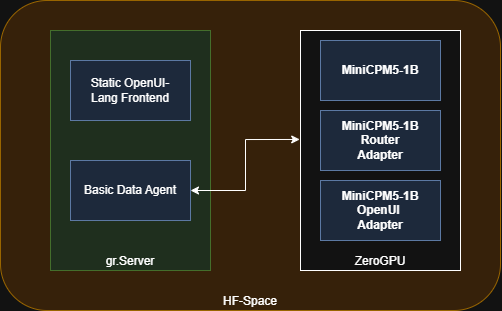
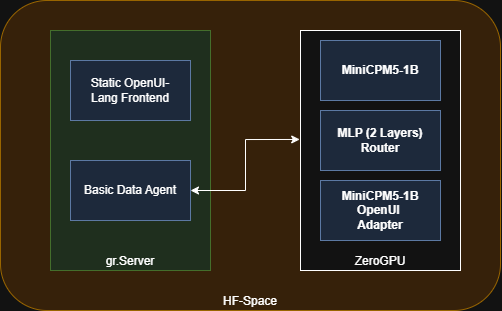
Updates Architecutre

Changed region(s): [[0.6574, 0.3762, 0.8665, 0.5209]]

diff --git a/blog/2026-06-15-build-small-hackathon.md b/blog/2026-06-15-build-small-hackathon.md
@@ -45,7 +45,7 @@ Die Nutzerfrage lautet:
 
 > Wie ist das Wetter in München
 
-Das Modell erzeugt daraufhin eine OpenUI-Lang-Repräsentation, die eine Wetterschnittstelle referenziert:
+Das LLM erzeugt daraufhin mithilfe von Wetterdaten eine OpenUI-Lang-Repräsentation:
 
 ```OpenUI-Lang
 root = Stack([header, callout, cards, footer])
@@ -92,11 +92,20 @@ Ein zentrales Deliverable im Hackathon war ein eigener Gradio Space zum Austeste
 Wir haben uns bewusst dafür entschieden, ausschließlich mit [MiniCPM-1B](https://huggingface.co/openbmb/MiniCPM5-1B) beziehungsweise fein-getunten LoRA-Adaptern zu arbeiten. Einerseits, weil der Anbieter des Modells den Hackathon unterstützt hat, andererseits, weil wir ausprobieren wollten, wie weit wir mit einem 1B-Modell kommen.
 
 ### Datensätze
+TODO Input Sebastian
 
 ### Training
+Wir haben zwei verschiedene Varianten zum Training ausprobiert. Zum einen auf lokaler Hardware. Auf der anderen Seite hatten wir auch im Zuge des Hackathons Modal Credits zur Verfüung gestellt bekommen.
 
-- Modal
-- 3090
+
+::: details Training auf Modal
+
+:::
+
+
+::: details Training auf Nvidia RTX 3090
+TODO Input Sebastian
+:::
 
 ## Erkenntnisse
 
@@ -138,6 +147,14 @@ Negativ aufgefallen ist:
 :::
 
 ## Fazit & Ausblick
+
+::: details Limitierungen
+
+:::
+
+::: details Ausblick
+
+:::
 
 ## Links
 